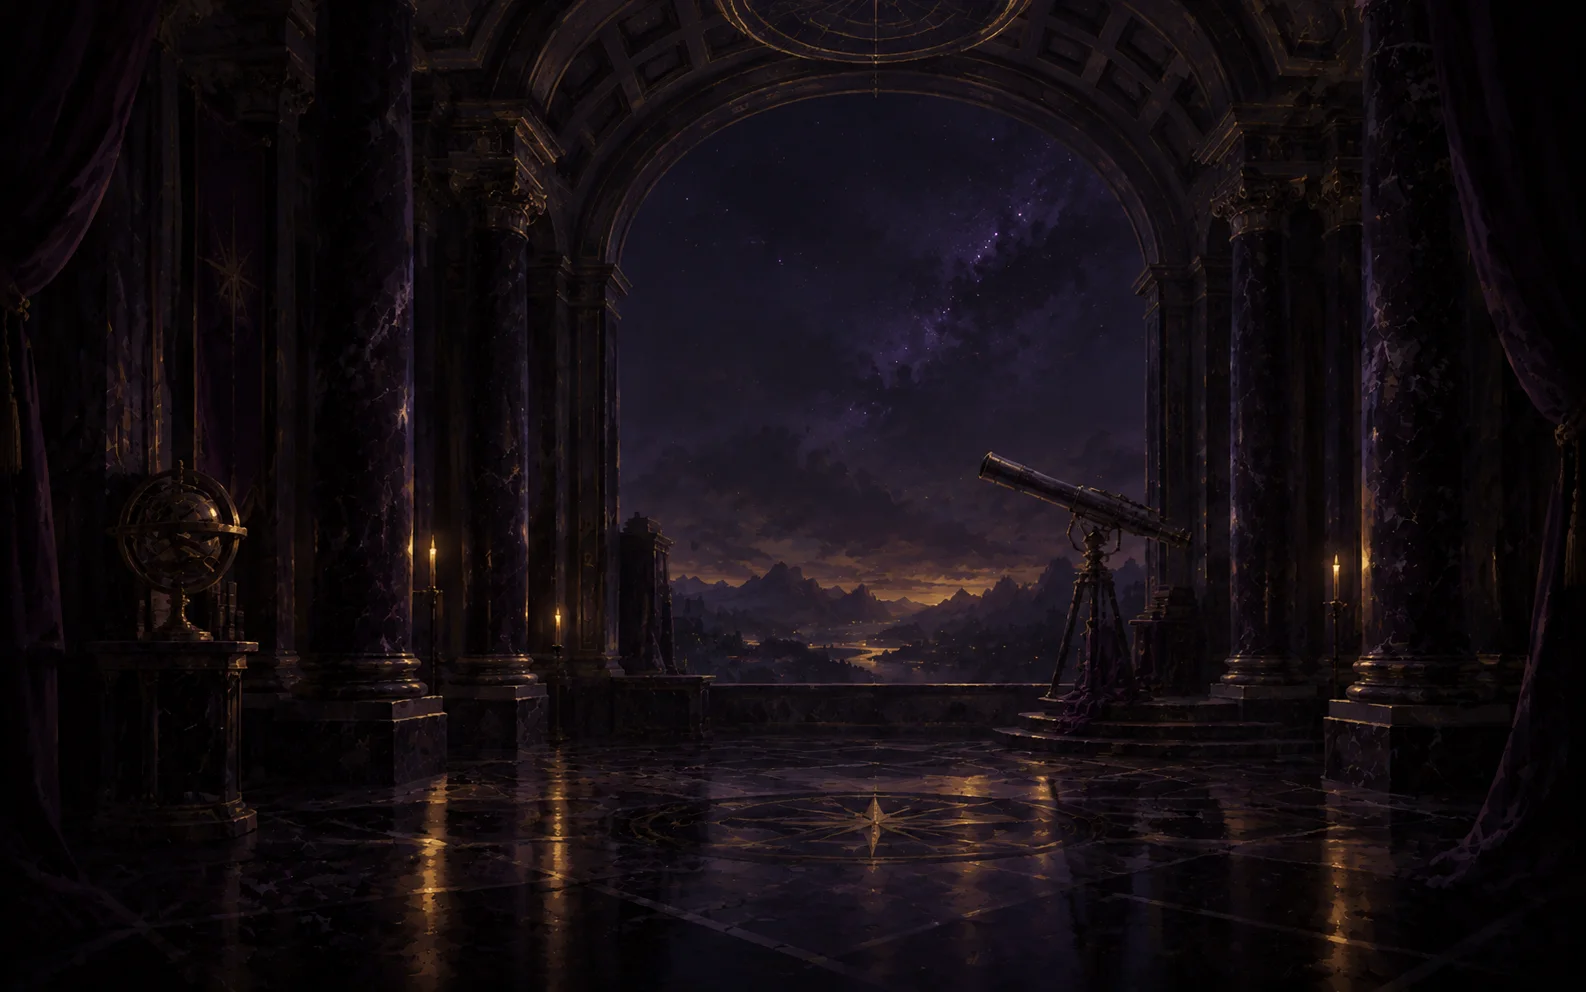
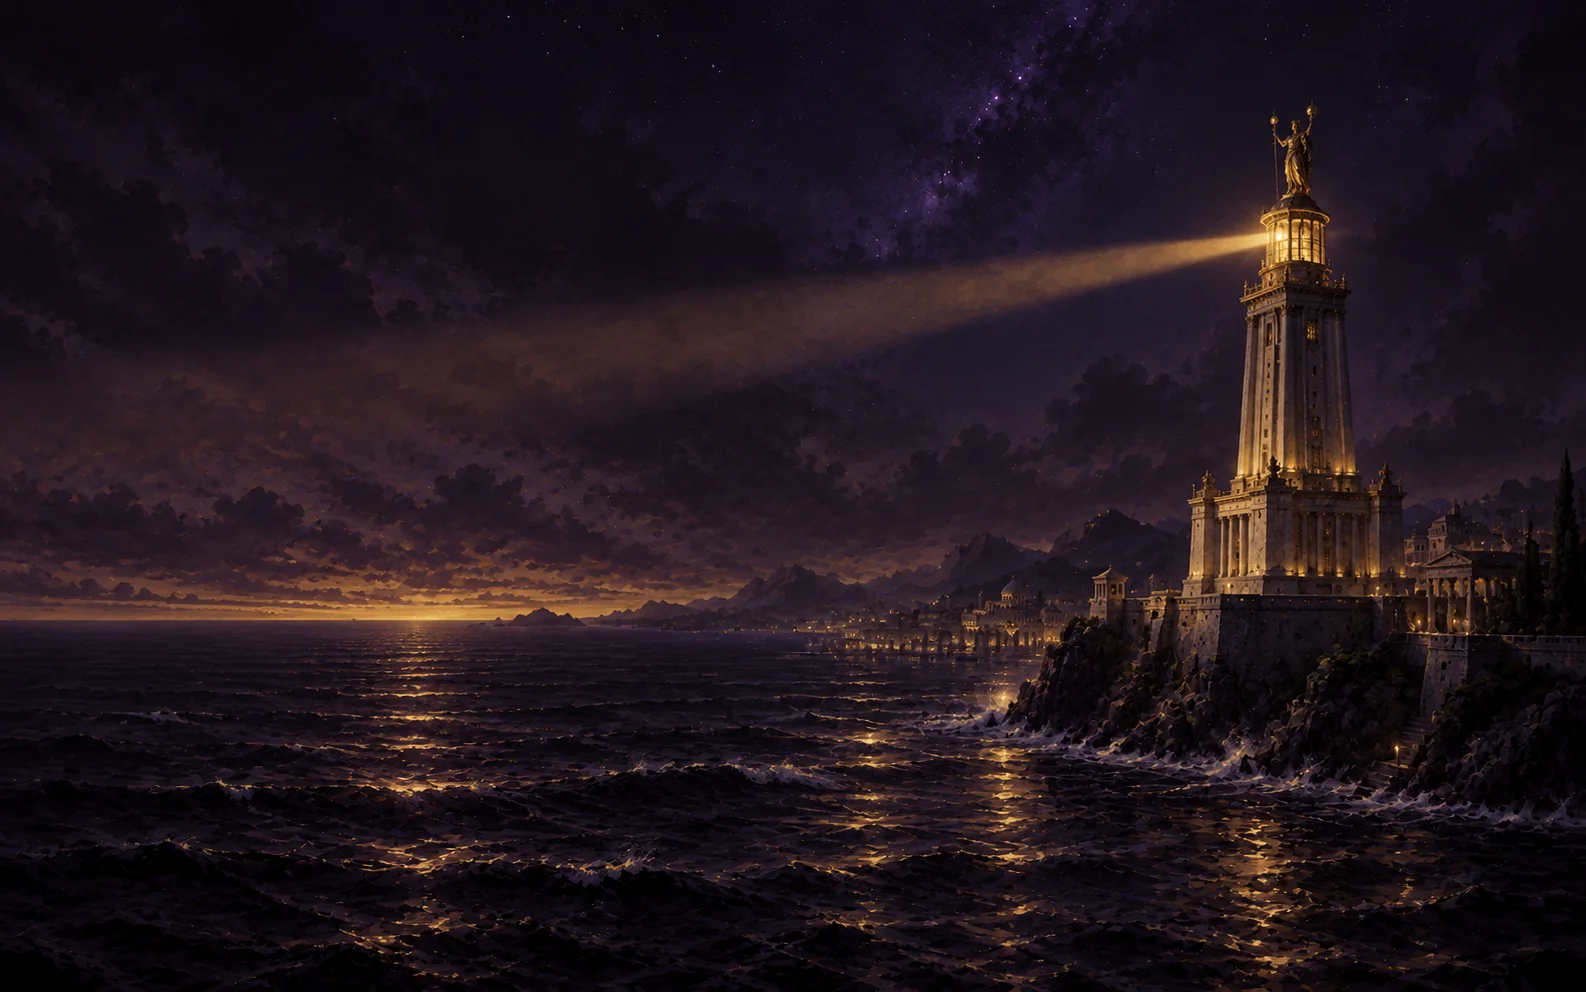
Adopt twin-weight alfaro labs wordmark and lighthouse painting
New brand SVGs: bold slanted "alfaro" with hairline "labs" wordmark and an
"a" icon for the favicon; smoke hashes updated to match. The hero scene is
now the Pharos-at-sea painting. Ignore the dev server's .tanstack/ output.

Amp-Thread-ID: https://ampcode.com/threads/T-01a161f4-e8d3-72ec-8499-7170cc3b6164

diff --git a/src/styles/app.css b/src/styles/app.css
@@ -186,13 +186,13 @@ a {
 }
 
 .scene-art {
-  background: url("/art/frontier.webp") 50% 45% / cover no-repeat;
+  background: url("/art/frontier.webp") 72% 40% / cover no-repeat;
   animation: art-in 2.6s var(--ease-reveal) both;
 }
 
 .scene-pixels {
   opacity: 0;
-  background: url("/art/frontier-pixels.png") 50% 45% / cover no-repeat;
+  background: url("/art/frontier-pixels.png") 72% 40% / cover no-repeat;
   image-rendering: pixelated;
   animation: pixels-out 3s var(--ease-reveal) 0.25s both;
 }
@@ -302,8 +302,8 @@ a {
 }
 
 .brand img {
-  width: 1.75rem;
-  height: 1.75rem;
+  width: auto;
+  height: 1.6rem;
 }
 
 .nav {
@@ -828,7 +828,7 @@ a {
 }
 
 .footer-mark {
-  width: 4rem;
+  width: 9rem;
   opacity: 0.9;
 }
 

diff --git a/src/components/SiteFooter.tsx b/src/components/SiteFooter.tsx
@@ -5,7 +5,7 @@ export function SiteFooter() {
   return (
     <footer className="site-footer">
       <p className="footer-closing">{published.closing.toText()}</p>
-      <Logo mark="wordmark" alt={published.name} className="footer-mark" width={1212} height={1211} />
+      <Logo mark="wordmark" alt={published.name} className="footer-mark" width={744} height={146} />
       <p className="footer-tagline">{published.footerTagline.toText()}</p>
       <ul className="footer-links">
         <li>

diff --git a/src/components/SiteHeader.tsx b/src/components/SiteHeader.tsx
@@ -9,8 +9,7 @@ export function SiteHeader() {
         {published.skipLink.toText()}
       </a>
       <Link className="brand" to="/">
-        <Logo mark="icon" alt="" width={32} height={32} />
-        <span>{published.name.toText()}</span>
+        <Logo mark="wordmark" alt={published.name} width={744} height={146} />
       </Link>
       <nav aria-label={published.navLabel.toText()}>
         <ul className="nav">

diff --git a/public/AGENTS.md b/public/AGENTS.md
@@ -2,7 +2,9 @@
 
 - `brand/*.svg` are supplied brand assets. Smoke pins all four files by SHA-256;
   do not redraw, optimize, or replace them without explicit brand-change approval.
-  The site currently renders the white wordmark and on-black icon.
+  The marks are the twin-weight "alfaro labs" wordmark (bold alfaro, hairline
+  labs, slanted) and an "a" icon. The header and footer render the white
+  wordmark; the on-black icon is the favicon.
 - Fonts are local WOFF2 files: Instrument Serif (display), Newsreader (text),
   and JetBrains Mono (labels). Keep each family's `fonts/OFL-*.txt` license.
 - `art/frontier.webp` is the commissioned hero painting; `art/frontier-pixels.png`

diff --git a/docs/agents/css.md b/docs/agents/css.md
@@ -6,7 +6,7 @@ globs:
 # CSS
 
 - Preserve the current visual system unless a redesign is requested: a fixed
-  painted royal-purple scene, Instrument Serif display type with gold italic
+  painted royal-purple lighthouse-at-sea scene, Instrument Serif display type with gold italic
   accents, mono uppercase labels, gold buttons, and a cream numbered "paper"
   panel set in Newsreader. Colors, fonts, and easings live in `:root` custom
   properties. Fonts are local; don't add a third-party font dependency.
